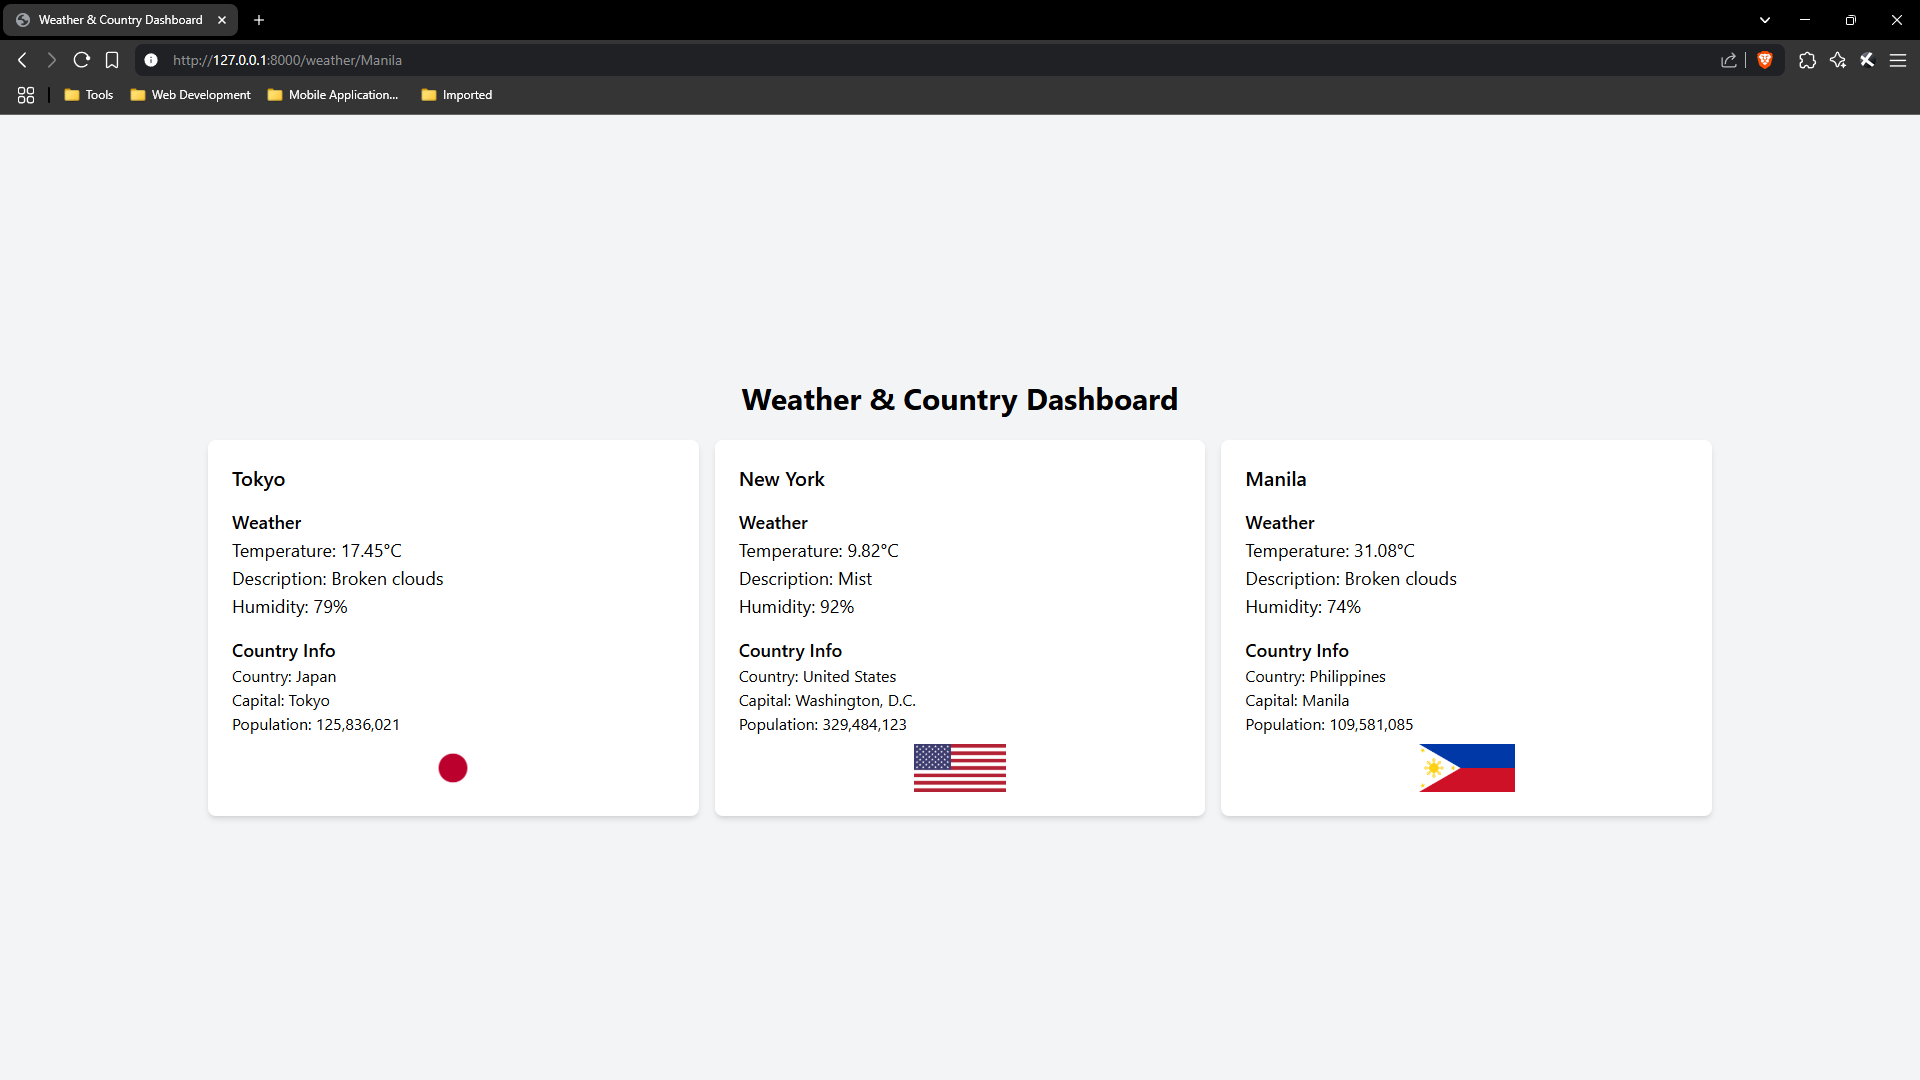
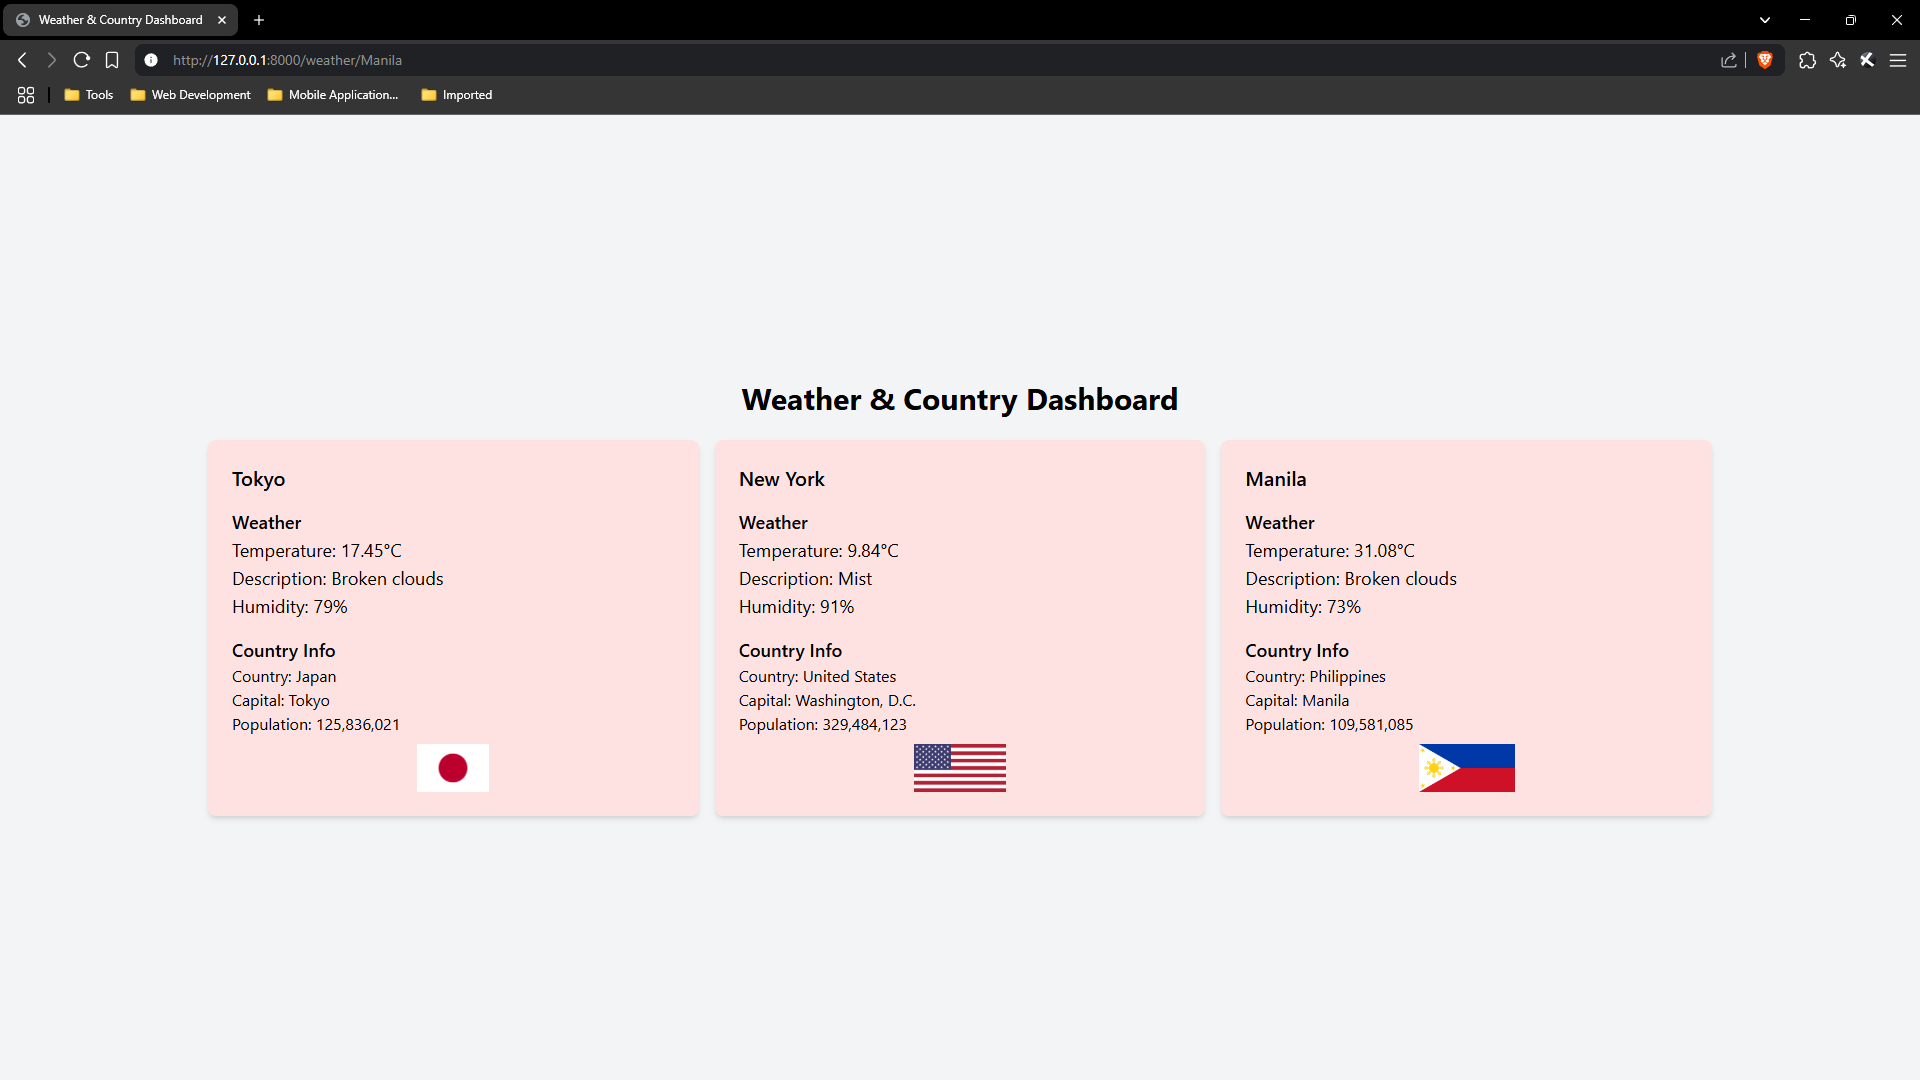
updates

Changed region(s): [[0.0938, 0.3972, 0.9062, 0.7639]]

diff --git a/Finals_Activity6/barrientos_finals_activity5/resources/views/weather.blade.php b/Finals_Activity6/barrientos_finals_activity5/resources/views/weather.blade.php
@@ -13,7 +13,7 @@
         <h1 class="text-3xl font-bold text-center mb-6">Weather & Country Dashboard</h1>
         <div class="grid grid-cols-1 md:grid-cols-3 gap-4">
             @foreach ($weatherData as $city => $weather)
-                <div class="bg-white p-6 rounded-lg shadow-md">
+                <div class="bg-red-100 p-6 rounded-lg shadow-md">
                     <h2 class="text-xl font-semibold mb-2">{{ $city }}</h2>
                     <h3 class="text-lg font-medium mt-4">Weather</h3>
                     @if ($weather)
